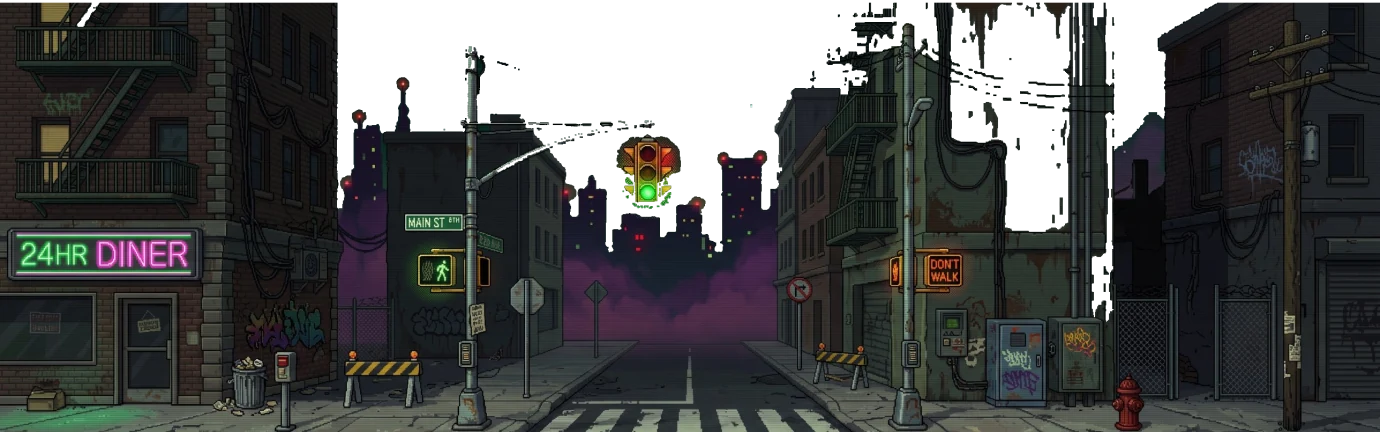
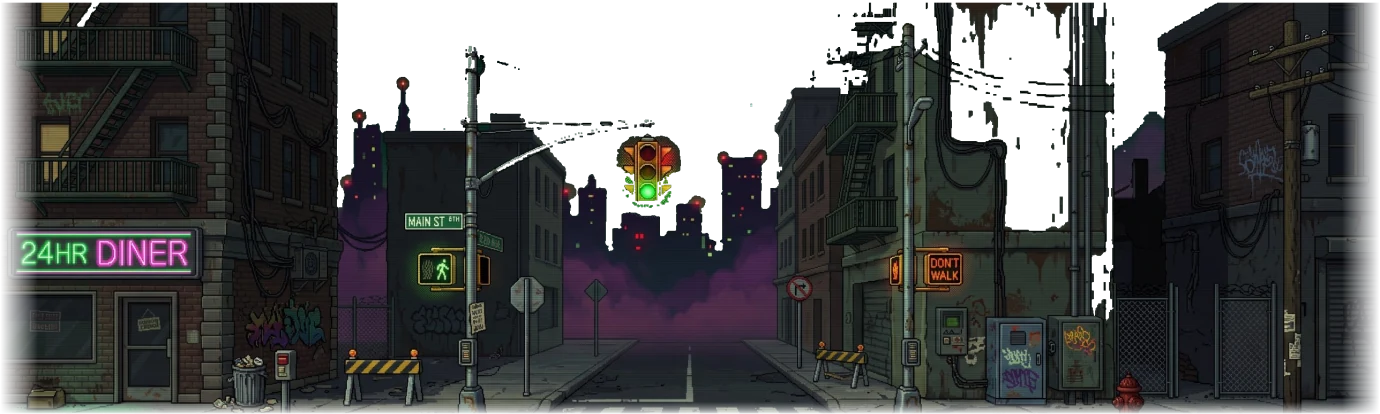
Little Asia: features spread evenly via shuffle bag (more noodle carts, octopus chases, sinkholes); intersection blends into the street; softer purple/white hand trail
Claude-Session: https://claude.ai/code/session_01KrEeTDAb27Eghe9M8znsQu

diff --git a/index.html b/index.html
@@ -863,11 +863,15 @@ function bagPick(pool){if(!G.bag||!G.bag.length){const b=[...new Set(pool)];for(
 function placeObs0(x,w,y,zone,d){
  const asia=zone==='street'&&isAsia(),fin=zone==='street'&&(isFin()||asia),CH=asia?(rng()<.35?CHAIN.asia:null):fin?CHAIN.fin:CHAIN[zone];
  const gzx=asia&&G.genX>500&&(G.gzN||0)<3?gzSpot(x,w):null;
- if(asia&&w>230&&rng()<.5){const r=rng();if(r<.3){const a=addObs(x+70,y,'anime');const oc=addObs(x+70+a.w+4,y,'octo');oc.prey=a;a.chased=1;coinArc(x+50,x+150,y-60);return}
-  if(r<.55){const b=addObs(x+Math.round(w*.55),y,'budd');b.st2='whole';for(let j=0;j<3;j++)addCoin(b.x+6+j*10,y-b.h-10);return}
-  if(r<.8){const c=addObs(x+Math.round(w*.5),y,'ncart');for(let j=0;j<3;j++)addCoin(c.x+8+j*10,y-c.h-10);return}
-  const sk=addObs(x+Math.round(w*.5),y,'sink');coinArc(sk.x-20,sk.x+sk.w+20,y-40);return}
  if(gzx!=null&&!G.gzAt?.[Math.round(gzx)]){G.gzAt=G.gzAt||{};G.gzAt[Math.round(gzx)]=1;G.gzN=(G.gzN||0)+1;const o=addObs(Math.round(gzx-22),y,'gz');o.st2='wait';o.solid=false;for(let j=0;j<4;j++)addCoin(o.x+6+j*10,y-o.h-10);return}
+ if(asia){// one feature per stretch, drawn from a shuffle bag so the whole cast turns up across the map
+  const n=w>300?2:1;for(let q=0;q<n;q++){const k=asiaBag(),cx0=x+Math.round((q+.5)*w/n+R(-20,20));
+   if(k==='octo'){const a=addObs(cx0-30,y,'anime');const oc=addObs(cx0-30+a.w+4,y,'octo');oc.prey=a;a.chased=1;coinArc(cx0-50,cx0+50,y-60)}
+   else if(k==='budd'){const b=addObs(cx0-15,y,'budd');b.st2='whole';for(let j=0;j<3;j++)addCoin(b.x+6+j*10,y-b.h-10)}
+   else if(k==='ncart'){const c=addObs(cx0-19,y,'ncart');for(let j=0;j<3;j++)addCoin(c.x+8+j*10,y-c.h-10)}
+   else if(k==='sink'){const sk=addObs(cx0-15,y,'sink');coinArc(sk.x-20,sk.x+sk.w+20,y-40)}
+   else{const ob=addObs(cx0-Math.round(OBS[k].w/2),y,k);if(ob.solid)for(let j=0;j*10<ob.w-4;j++)addCoin(ob.x+4+j*10,y-ob.h-10);else coinArc(ob.x-16,ob.x+ob.w+16,y-ob.h-22)}}
+  return}
  if(fin&&!asia&&!G.couple&&w>200){G.couple=1;addObs(x+50,y,'couple');x+=110;w-=110}
  if(CH&&w>=220&&rng()<.35+.25*d){let cx=x+Math.round(R(30,44)),n=0;
   while(n<3){const opts=CH.filter(k=>cx+OBS[k].w<=x+w-26);if(!opts.length)break;let k=opts[Math.floor(rng()*opts.length)];for(let tr=0;tr<6&&k===G.lastK&&opts.length>1;tr++)k=opts[Math.floor(rng()*opts.length)];const ob=addObs(cx,y,k);n++;
@@ -1100,6 +1104,8 @@ const AS2={"budA":{"x":0,"y":0,"w":33,"h":46},"budB":{"x":34,"y":0,"w":32,"h":46
 // ---------- Little Asia kit B: octopus chase, Buddha, noodle cart, sinkhole ----------
 const GZSEG=28;
 function A2(k,dx,dy,dw,dh){const Q=AS2[k];ARTI(ART.asia2,Q.x*AS,Q.y*AS,Q.w*AS,Q.h*AS,dx,dy,dw==null?Q.w:dw,dh==null?Q.h:dh)}
+const ASBAG0=['ncart','octo','sink','ncart','octo','budd','anime','boss','red','bat','swd','nsw','ninja','robot','can','dumpster','bcan','bagpile','ncart','octo','sink'];
+function asiaBag(){if(!G.abag||!G.abag.length){const b=ASBAG0.slice();for(let i=b.length-1;i>0;i--){const j=Math.floor(rng()*(i+1));[b[i],b[j]]=[b[j],b[i]]}if(G.lastK&&b[b.length-1]===G.lastK)b.unshift(b.pop());G.abag=b}return G.abag.pop()}
 function gzSpot(x,w){if(!ART.ready)return null;const L=hsWorld(x+w+40);for(const b of L)if(b.k===GZSEG&&b.o+b.w/2>x+40&&b.o+b.w/2<x+w-40)return b.o+b.w/2;return null}
 function updAsia2(dt){if(!ART.asia2)return;
  for(const o of G.obs){if(o.dead)continue;const dx=o.x-G.x;
@@ -1126,14 +1132,14 @@ function drawDebris(cam){if(!G.debris||!ART.asia2)return;for(const d of G.debris
 // stamina for running
 function drawStamina(){if(!G||G.demo||state!=='play')return;const s=G.stam==null?1:G.stam,x=12,y=G.power?72:52;ctx.fillStyle='#22141c';ctx.fillRect(x-1,y-1,62,5);const c=G.tired?'#ff4f7b':s<.3?'#ffb020':'#5af0ff';ctx.fillStyle=c;ctx.fillRect(x,y,Math.round(60*s),3);ctx.fillStyle='rgba(255,255,255,.35)';ctx.fillRect(x,y,Math.round(60*s),1);ctx.save();ctx.translate(x,y+10);ctx.scale(.6,.6);txt(G.tired?'OUT OF BREATH!':'RUN',0,0,c);ctx.restore()}
 
-const PW2M={"pJoint":{"x":0,"y":0,"w":47,"h":14},"pBottle":{"x":48,"y":0,"w":8,"h":22},"pBum":{"x":57,"y":0,"w":20,"h":16},"pFart":{"x":78,"y":0,"w":18,"h":14},"pCologne":{"x":97,"y":0,"w":12,"h":20}},INM={"w":460,"h":144};
+const PW2M={"pJoint":{"x":0,"y":0,"w":47,"h":14},"pBottle":{"x":48,"y":0,"w":8,"h":22},"pBum":{"x":57,"y":0,"w":20,"h":16},"pFart":{"x":78,"y":0,"w":18,"h":14},"pCologne":{"x":97,"y":0,"w":12,"h":20}},INM={"w":460,"h":138};
 // ---------- intersection set piece: closes every trip, links endless zones ----------
 function interXs(){const L=[];if(G.mode==='trip'&&isFinite(G.finishX))L.push(G.finishX);if(G.inters)for(const x of G.inters)L.push(x);return L}
 function inInter(x0,x1){for(const c of interXs())if(x1>c-INM.w/2-6&&x0<c+INM.w/2+6)return true;return false}
-function drawInter(cam){if(!ART.inter)return;const M=INM,Y=STREET_Y+3;
+function drawInter(cam){if(!ART.inter)return;const M=INM,Y=STREET_Y+1;
  for(const c of interXs()){const x=Math.round(c-M.w/2-cam);if(x>W+4||x+M.w<-4)continue;const th=G.mode==='trip'?G.trip:(G.interTh||{})[c]||0;
   // sky behind the cross street
-  ctx.save();const top=Math.round(G.camY)-4;const g=ctx.createLinearGradient(0,top,0,Y);g.addColorStop(0,q8(pal.sky1));g.addColorStop(1,q8(pal.sky2));ctx.fillStyle=g;ctx.fillRect(x+40,top,M.w-80,Y-top-20);
+  ctx.save();const top=Math.round(G.camY)-4;const g=ctx.createLinearGradient(0,top,0,Y);g.addColorStop(0,q8(pal.sky1));g.addColorStop(1,q8(pal.sky2));ctx.fillStyle=g;ctx.fillRect(x+70,top,M.w-140,Y-top-30);
   for(let i=0;i<14;i++){ctx.fillStyle=Math.sin(clock*3+i)>.5?'#ffffff':'#b8b8ff';ctx.fillRect(x+50+hash(i*3.1+c)*(M.w-100),top+6+hash(i*7.7)*60,1,1)}
   ctx.imageSmoothingEnabled=true;const iw=ART.inter.width;if(top<Y-M.h){ctx.drawImage(ART.inter,0,0,iw,4*AS,x,top,M.w,Y-M.h-top+2);const hz=ctx.createLinearGradient(0,top,0,Y-M.h+4);hz.addColorStop(0,'rgba(10,6,24,.8)');hz.addColorStop(1,'rgba(10,6,24,0)');ctx.fillStyle=hz;ctx.fillRect(x,top,M.w,Y-M.h-top+4)}ctx.drawImage(ART.inter,x,Y-M.h,M.w,M.h);
   // the level's theme washed over the corner buildings
@@ -1356,7 +1362,7 @@ function update(dt){
  {const pl=G.plats.find(q=>G.x+80>=q.x&&G.x+80<=q.x+(q.fw||q.w)),t=pl?pl.type:'',k2=Math.min(1,dt*.9);G.envSea=(G.envSea||0)+((t==='board'?1:0)-(G.envSea||0))*k2;G.envPark=(G.envPark||0)+((t==='grass'?1:0)-(G.envPark||0))*k2;G.envDock=(G.envDock||0)+((t==='container'?1:0)-(G.envDock||0))*k2;G.envHwy=(G.envHwy||0)+((t==='car'||t==='hwramp'?1:0)-(G.envHwy||0))*k2;G.envCT=(G.envCT||0)+((t==='cstreet'?1:0)-(G.envCT||0))*k2}
  for(const o of G.obs)if(o.dead){o.t+=dt;if(o.st==='run'){o.x-=(o.k==='cat'||OBS[o.k].l2||OBS[o.k].as?260+Math.min(o.t,1)*120:-160)*dt}else if(o.st==='fly'){o.x+=55*dt;o.y-=(50+60*o.t)*dt}else if(o.st==='smash'){o.x+=o.vx*dt;o.vy+=650*dt;o.y+=o.vy*dt;o.rot+=9*dt}}
  // wrist dissolving into pixels
- if(G.wrist&&!G.dead&&Math.random()<dt*(G.grounded?22:34)){const u=Math.random(),cols=['#ff3fd0','#ff6ae0','#ff2bb8','#ffa8ee','#ff52c8'];
+ if(G.wrist&&!G.dead&&Math.random()<dt*(G.grounded?11:17)){const u=Math.random(),cols=['#b46bff','#d8b8ff','#ffffff','#9a5aff','#efe4ff'];
   G.parts.push({x:lerp(G.wrist[0],G.wrist[2],u)+(Math.random()-.5)*3,y:lerp(G.wrist[1],G.wrist[3],u)+(Math.random()-.5)*3,vx:-20-Math.random()*35,vy:-6-Math.random()*12,life:.15+Math.random()*.3,col:cols[Math.floor(Math.random()*cols.length)],g:-20,s:1,glow:1})}
  // run animation
  {const pc=Math.cos(G.phase),pc2=Math.cos(G.phase+PI);if(G.grounded)G.phase+=gdt*G.speed*.13;
@@ -2568,9 +2574,9 @@ function render(){
  }
  if(!HIDEHAND){if(ART.hand)drawHandArt(G.x-cam,G.y,handPose(),cam);else{ctx.save();ctx.shadowColor='rgba(255,186,140,.55)';ctx.shadowBlur=6;handBlit(hc,G.x-cam,G.y);ctx.restore();if(G.power&&G.power.type==='rainbow'&&ART.pw&&!G.dead)holdJoint(cam)}
   // wrist dissolves into drifting pixels, like the hand is phasing out of the window
-  if(G.wrist&&!G.dead&&!G.demo||G&&G.demo&&G.wrist){const [x1,y1,x2,y2]=G.wrist,n=G.grounded?2:3;for(let k=0;k<n;k++){const q=Math.random();G.parts.push({x:lerp(x1,x2,q)-2,y:lerp(y1,y2,q),vx:-30-Math.random()*70,vy:(Math.random()-.5)*40-10,life:.18+Math.random()*.28,col:['#ffbf8a','#f8a374','#ee585e','#d41d85','#fdffb1'][Math.floor(Math.random()*5)],g:-20,s:Math.random()<.35?2:1})}}}
+  if(G.wrist&&!G.dead&&!G.demo||G&&G.demo&&G.wrist){const [x1,y1,x2,y2]=G.wrist,n=(G.grounded?1:1.5)+(Math.random()<.5?0:-1);for(let k=0;k<n;k++){const q=Math.random();G.parts.push({x:lerp(x1,x2,q)-2,y:lerp(y1,y2,q),vx:-30-Math.random()*60,vy:(Math.random()-.5)*30-8,life:.18+Math.random()*.25,col:['#b46bff','#d8b8ff','#ffffff','#9a5aff','#efe4ff'][Math.floor(Math.random()*5)],g:-20,s:1,glow:1})}}}
  if(G.shield>0&&!G.dead){for(let i=0;i<8;i++){const a=clock*6+i*TAU/8;ctx.fillStyle=(i+Math.floor(clock*10))%2?'#ffd23f':'#ffffff';ctx.fillRect(Math.round(G.x-cam+Math.cos(a)*15),Math.round(G.y-16+Math.sin(a)*19),2,2)}}
- for(const p of G.parts){if(p.glow){ctx.globalAlpha=Math.min(1,p.life*4);ctx.fillStyle='rgba(255,60,200,.35)';ctx.fillRect(Math.round(p.x-cam)-1,Math.round(p.y)-1,3,3);ctx.globalAlpha=Math.min(1,p.life*5);ctx.fillStyle=p.col;ctx.fillRect(Math.round(p.x-cam),Math.round(p.y),1,1);ctx.globalAlpha=1;continue}ctx.fillStyle=p.col;ctx.fillRect(Math.round(p.x-cam),Math.round(p.y),p.s,p.s)}
+ for(const p of G.parts){if(p.glow){ctx.globalAlpha=Math.min(1,p.life*4);ctx.fillStyle='rgba(200,170,255,.28)';ctx.fillRect(Math.round(p.x-cam)-1,Math.round(p.y)-1,3,3);ctx.globalAlpha=Math.min(1,p.life*5);ctx.fillStyle=p.col;ctx.fillRect(Math.round(p.x-cam),Math.round(p.y),1,1);ctx.globalAlpha=1;continue}ctx.fillStyle=p.col;ctx.fillRect(Math.round(p.x-cam),Math.round(p.y),p.s,p.s)}
  drawFX(cam);
  for(const p of G.pops){ctx.globalAlpha=Math.min(1,p.life*2);txtB(p.text,Math.round(p.x-cam),Math.round(p.y),p.col,'center');ctx.globalAlpha=1}
  ctx.restore();
@@ -2856,7 +2862,7 @@ const EB=26;let HEXT=null;function buildExt(){if(HEXT||!ART.street)return;HEXT=[
   g.putImageData(id,0,0);const e=document.createElement('canvas');e.width=w;e.height=h;e.getContext('2d').drawImage(c,0,0);HEXT.push(e)}}
 function drawHSBlds(p,x,y){buildExt();const cw=ctx.canvas.width/S,L=hsList(p,-x+cw+10),fw=p.fw||p.w,a=Math.max(x,-4),bw=Math.min(x+fw,cw+4)-a;
  const D=q8(pal.mid.map(v=>v*.35));{const g=ctx.createLinearGradient(0,y-90,0,y-30);g.addColorStop(0,'rgba(0,0,0,0)');g.addColorStop(1,D);ctx.fillStyle=g;ctx.fillRect(a,y-90,bw,90)}
- for(let i=0;i<L.length;i++){const b=L[i],bx=x+b.o;if(bx>cw+4||bx+b.w<-4)continue;if(inInter(p.x+b.o,p.x+b.o+b.w))continue;
+ for(let i=0;i<L.length;i++){const b=L[i],bx=x+b.o;if(bx>cw+4||bx+b.w<-4)continue;if(inInter(p.x+b.o+b.w*.35,p.x+b.o+b.w*.65)&&Math.abs(p.x+b.o+b.w/2-interXs().find(c=>Math.abs(c-(p.x+b.o))<300))<INM.w/2-70)continue;
   if(b.k<0){// alley between buildings: recessed back wall with the two side walls closing in
    const l=L[i-1],r=L[i+1],ah=Math.min(l&&l.k>=0?HSEGS[l.k].h:120,r&&r.k>=0?HSEGS[r.k].h:120)-4;ctx.fillStyle=q8(pal.mid.map(v=>v*.18));ctx.fillRect(bx,y-ah,b.w,ah);
    const half=Math.ceil(b.w/2);
